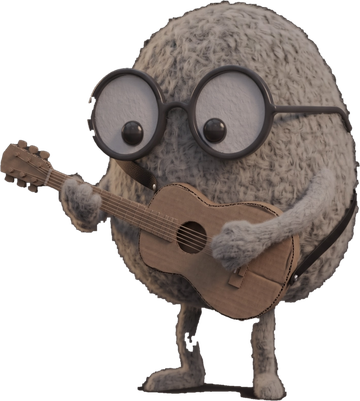
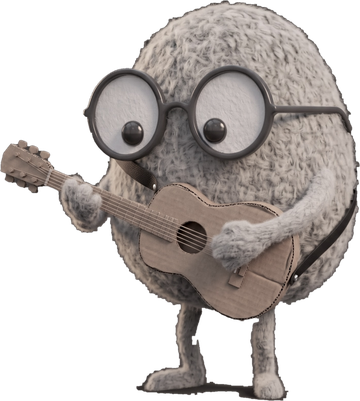
Music and Sounds: the new guitar render, a little further left
Claude-Session: https://claude.ai/code/session_01NDsvQ4w6b4M39K7iEhCswz

diff --git a/src/components/AmbientControls.js b/src/components/AmbientControls.js
@@ -38,7 +38,7 @@ export default function AmbientControls() {
             <Chip label={t('Off')} on={!s.sound && !s.music} onPress={stopAmbient} />
           </View>
         </View>
-        <Image source={GUITAR} style={{ width: 112, height: 125, marginTop: 2 }} resizeMode="contain" accessibilityIgnoresInvertColors />
+        <Image source={GUITAR} style={{ width: 112, height: 125, marginTop: 2, marginRight: 14 }} resizeMode="contain" accessibilityIgnoresInvertColors />
       </View>
       <Text style={styles.group}>{t('Music')}</Text>
       <View style={styles.chips}>
